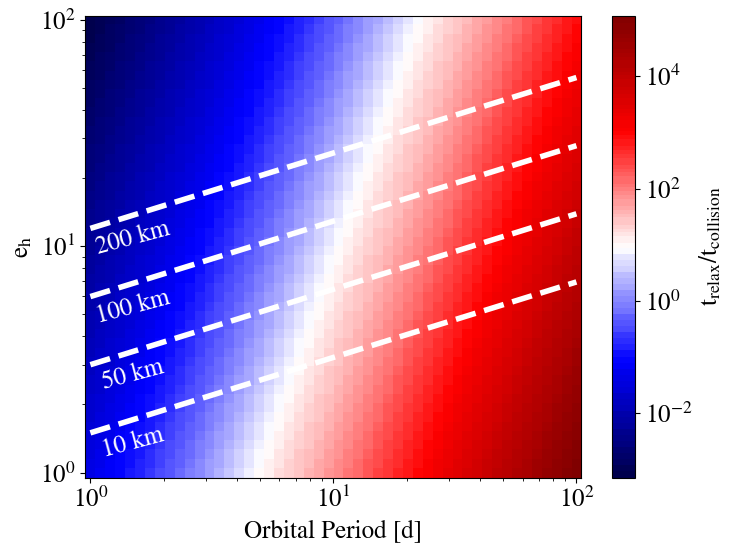
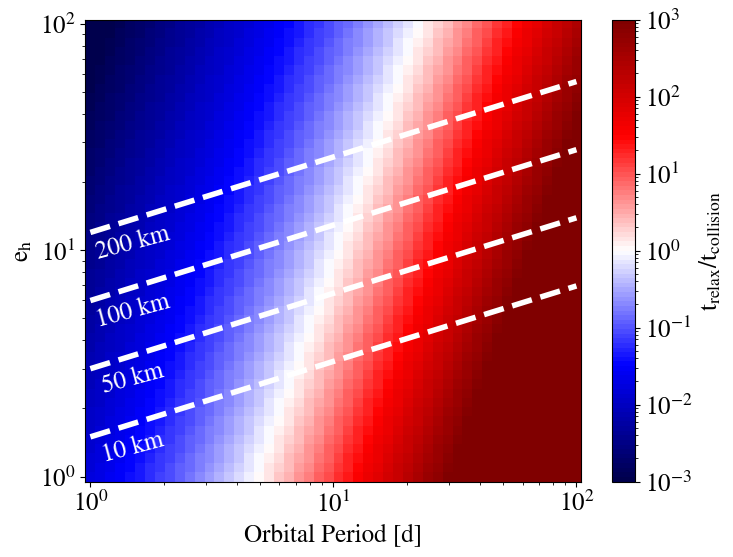
Fix colorbar in figure 1

diff --git a/makeFig.py b/makeFig.py
@@ -224,7 +224,9 @@ def plot_timescales():
 			x, y = [np.log(self.vmin), np.log(self.midpoint), np.log(self.vmax)], [0, 0.5, 1]
 			return np.ma.masked_array(np.interp(np.log(value), x, y))
 
-	norm = MidPointLogNorm(vmin=np.min(trel_div_tcoll), midpoint=1.0, vmax=np.max(trel_div_tcoll))
+	# Matplotlib bug: the midpoint on the colorbar has to be exactly in the center
+	# of min and max, otherwise the colorbar doesnt match the colormap
+	norm = MidPointLogNorm(vmin=np.min(1e-3), midpoint=1.0, vmax=np.max(1e3))
 	cax = axes.pcolormesh(pvals, ehvals, np.flipud(np.rot90(trel_div_tcoll)), \
 							norm=norm, cmap=cmap)
 	axes.set_xscale('log')
@@ -1471,7 +1473,7 @@ def plot_rung_ecc():
 
 	plt.savefig(file_str, format=fmt, bbox_inches='tight')
 
-#plot_timescales()
+plot_timescales()
 #plot_alpha_beta()
 #plot_alpha_beta_evo()
 #plot_alpha_beta_mass()
@@ -1481,7 +1483,7 @@ def plot_rung_ecc():
 #plot_surfden_profiles()
 #plot_surfden_iso()
 #plot_surfden_b()
-plot_smooth_acc()
+#plot_smooth_acc()
 #plot_acc_zones()
 #plot_f6f4()
 #plot_f6f4_b()
